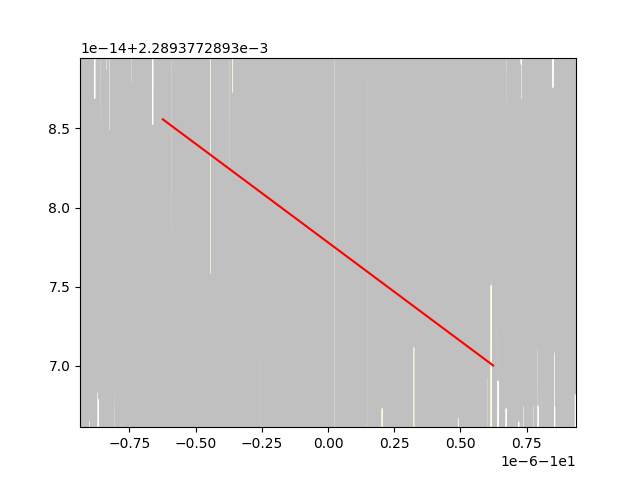
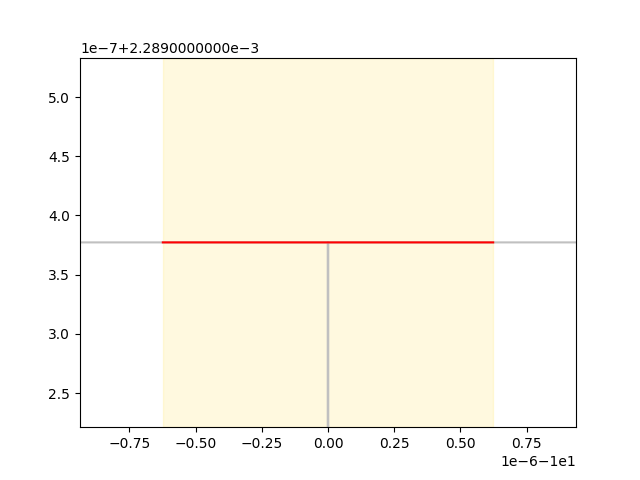
improved y axis zoom levels on diagrams

diff --git a/find_singularities.py b/find_singularities.py
@@ -76,7 +76,10 @@ def draw_graphs(eq_no, file_name, new_ex, original_eq, new_V, original_V, vardef
             x, y, x2, y2 = [], [], [], []
 
             plt.xlim(float(Vmin - (0.25 * (Vmax - Vmin))), float(Vmax + (0.25 * (Vmax - Vmin))))
-            plt.ylim(float(min_val - (0.25 * (max_val - min_val))), float(max_val + (0.25 * (max_val - min_val))))
+            plt.ylim(float(min_val - (0.025 * (max_val - min_val))), float(max_val + (0.025 * (max_val - min_val))))
+            #range_diff = max((Vmax - Vmin) - (Vmax - Vmin), 0.25 * (Vmax - Vmin))
+            #plt.ylim(float(min_val - (range_diff/2)), float(max_val + (range_diff/2)))
+
             plt.axvspan(Vmin, Vmax, color='gold', alpha=0.125)
 
             current_point = Vmin - (0.25 * (Vmax - Vmin))
@@ -159,85 +162,85 @@ def process_model(file_name):
     return {file_name: model_result_text}
 
 
-file_names = ['aslanidi_atrial_model_2009.cellml',
-              'aslanidi_Purkinje_model_2009.cellml',
-              'beeler_reuter_model_1977.cellml',
-              'benson_epicardial_2008.cellml',
-              'bernus_wilders_zemlin_verschelde_panfilov_2002.cellml',
-              'bondarenko_szigeti_bett_kim_rasmusson_2004_apical.cellml',
-              'bondarenko_szigeti_bett_kim_rasmusson_2004_septal.cellml',
-              'bueno_2007_endo.cellml',
-              'bueno_2007_epi.cellml',
-              'carro_2011_endo.cellml',
-              'carro_2011_epi.cellml',
-              'clancy_rudy_2002.cellml',
-              'corrias_purkinje_2011.cellml',
-              'courtemanche_ramirez_nattel_1998.cellml',
-              'davies_isap_2012.cellml',
-              'decker_2009.cellml',
-              'demir_model_1994.cellml',
-              'difrancesco_noble_model_1985.cellml',
-              'dokos_model_1996.cellml',
-              'earm_noble_model_1990.cellml',
-              'espinosa_model_1998_normal.cellml',
-              'faber_rudy_2000.cellml',
-              'fink_noble_giles_model_2008.cellml',
-              'fox_mcharg_gilmour_2002.cellml',
-              'grandi_pasqualini_bers_2010_ss.cellml',
-              'grandi_pasqualini_bers_2010_ss_endo.cellml',
-              'hilgemann_noble_model_1987.cellml',
-              'hodgkin_huxley_squid_axon_model_1952_modified.cellml',
-              'hund_rudy_2004.cellml',
-              'iribe_model_2006.cellml',
-              'iyer_2004.cellml',
-              'iyer_model_2007.cellml',
-              'jafri_rice_winslow_model_1998.cellml',
-              'kurata_model_2002.cellml',
-              'lindblad_model_1996.cellml',
-              'livshitz_rudy_2007.cellml',
-              'li_mouse_2010.cellml',
-              'luo_rudy_1991.cellml',
-              'luo_rudy_1994.cellml',
-              'mahajan_shiferaw_2008.cellml',
-              'maleckar_model_2009.cellml',
-              'maltsev_2009.cellml',
-              'matsuoka_model_2003.cellml',
-              'mcallister_noble_tsien_1975_b.cellml',
-              'noble_model_1962.cellml',
-              'noble_model_1991.cellml',
-              'noble_model_1998.cellml',
-              'noble_model_2001.cellml',
-              'noble_noble_SAN_model_1984.cellml',
-              'noble_SAN_model_1989.cellml',
-              'nygren_atrial_model_1998.cellml',
-              'ohara_rudy_2011_endo.cellml',
-              'ohara_rudy_2011_epi.cellml',
+file_names = [#'aslanidi_atrial_model_2009.cellml',
+              # 'aslanidi_Purkinje_model_2009.cellml',
+              # 'beeler_reuter_model_1977.cellml',
+              # 'benson_epicardial_2008.cellml',
+              # 'bernus_wilders_zemlin_verschelde_panfilov_2002.cellml',
+              # 'bondarenko_szigeti_bett_kim_rasmusson_2004_apical.cellml',
+              # 'bondarenko_szigeti_bett_kim_rasmusson_2004_septal.cellml',
+              # 'bueno_2007_endo.cellml',
+              # 'bueno_2007_epi.cellml',
+              # 'carro_2011_endo.cellml',
+              # 'carro_2011_epi.cellml',
+              # 'clancy_rudy_2002.cellml',
+              # 'corrias_purkinje_2011.cellml',
+              # 'courtemanche_ramirez_nattel_1998.cellml',
+              # 'davies_isap_2012.cellml',
+              # 'decker_2009.cellml',
+              # 'demir_model_1994.cellml',
+              # 'difrancesco_noble_model_1985.cellml',
+              # 'dokos_model_1996.cellml',
+              # 'earm_noble_model_1990.cellml',
+              # 'espinosa_model_1998_normal.cellml',
+              # 'faber_rudy_2000.cellml',
+              # 'fink_noble_giles_model_2008.cellml',
+              # 'fox_mcharg_gilmour_2002.cellml',
+              # 'grandi_pasqualini_bers_2010_ss.cellml',
+              # 'grandi_pasqualini_bers_2010_ss_endo.cellml',
+              # 'hilgemann_noble_model_1987.cellml',
+              # 'hodgkin_huxley_squid_axon_model_1952_modified.cellml',
+              # 'hund_rudy_2004.cellml',
+              # 'iribe_model_2006.cellml',
+              # 'iyer_2004.cellml',
+              # 'iyer_model_2007.cellml',
+              # 'jafri_rice_winslow_model_1998.cellml',
+              # 'kurata_model_2002.cellml',
+              # 'lindblad_model_1996.cellml',
+              # 'livshitz_rudy_2007.cellml',
+              # 'li_mouse_2010.cellml',
+              # 'luo_rudy_1991.cellml',
+              # 'luo_rudy_1994.cellml',
+              # 'mahajan_shiferaw_2008.cellml',
+              # 'maleckar_model_2009.cellml',
+              # 'maltsev_2009.cellml',
+              # 'matsuoka_model_2003.cellml',
+              # 'mcallister_noble_tsien_1975_b.cellml',
+              # 'noble_model_1962.cellml',
+              # 'noble_model_1991.cellml',
+              # 'noble_model_1998.cellml',
+              # 'noble_model_2001.cellml',
+              # 'noble_noble_SAN_model_1984.cellml',
+              # 'noble_SAN_model_1989.cellml',
+              # 'nygren_atrial_model_1998.cellml',
+              #'ohara_rudy_2011_endo.cellml',
+              #'ohara_rudy_2011_epi.cellml',
               'ohara_rudy_cipa_v1_2017.cellml',
-              'paci_hyttinen_aaltosetala_severi_atrialVersion.cellml',
-              'paci_hyttinen_aaltosetala_severi_ventricularVersion.cellml',
-              'pandit_clark_giles_demir_2001_endocardial_cell.cellml',
-              'pandit_clark_giles_demir_2001_epicardial_cell.cellml',
-              'pasek_simurda_christe_2006.cellml',
-              'pasek_simurda_orchard_christe_2008.cellml',
-              'priebe_beuckelmann_1998.cellml',
-              'ramirez_nattel_courtemanche_2000.cellml',
-              'sachse_moreno_abildskov_2008_b.cellml',
-              'sakmann_model_2000_epi.cellml',
-              'shannon_wang_puglisi_weber_bers_2004.cellml',
-              'stewart_zhang_model_2008_ss.cellml',
-              'ten_tusscher_model_2004_endo.cellml',
-              'ten_tusscher_model_2004_epi.cellml',
-              'ten_tusscher_model_2004_M.cellml',
-              'ten_tusscher_model_2006_endo.cellml',
-              'ten_tusscher_model_2006_epi.cellml',
-              'ten_tusscher_model_2006_M.cellml',
-              'ToRORd_fkatp_endo.cellml',
-              'ToRORd_fkatp_epi.cellml',
-              'Trovato2020.cellml',
-              'viswanathan_model_1999_epi.cellml',
-              'wang_sobie_2008.cellml',
-              'winslow_model_1999.cellml',
-              'zhang_SAN_model_2000_0D_capable.cellml'
+              # 'paci_hyttinen_aaltosetala_severi_atrialVersion.cellml',
+              # 'paci_hyttinen_aaltosetala_severi_ventricularVersion.cellml',
+              # 'pandit_clark_giles_demir_2001_endocardial_cell.cellml',
+              # 'pandit_clark_giles_demir_2001_epicardial_cell.cellml',
+              # 'pasek_simurda_christe_2006.cellml',
+              # 'pasek_simurda_orchard_christe_2008.cellml',
+              # 'priebe_beuckelmann_1998.cellml',
+              # 'ramirez_nattel_courtemanche_2000.cellml',
+              # 'sachse_moreno_abildskov_2008_b.cellml',
+              # 'sakmann_model_2000_epi.cellml',
+              # 'shannon_wang_puglisi_weber_bers_2004.cellml',
+              # 'stewart_zhang_model_2008_ss.cellml',
+              # 'ten_tusscher_model_2004_endo.cellml',
+              # 'ten_tusscher_model_2004_epi.cellml',
+              # 'ten_tusscher_model_2004_M.cellml',
+              # 'ten_tusscher_model_2006_endo.cellml',
+              # 'ten_tusscher_model_2006_epi.cellml',
+              # 'ten_tusscher_model_2006_M.cellml',
+              # 'ToRORd_fkatp_endo.cellml',
+              # 'ToRORd_fkatp_epi.cellml',
+              # 'Trovato2020.cellml',
+              # 'viswanathan_model_1999_epi.cellml',
+              # 'wang_sobie_2008.cellml',
+              # 'winslow_model_1999.cellml',
+              # 'zhang_SAN_model_2000_0D_capable.cellml'
               ]
 
 if __name__ == '__main__':
